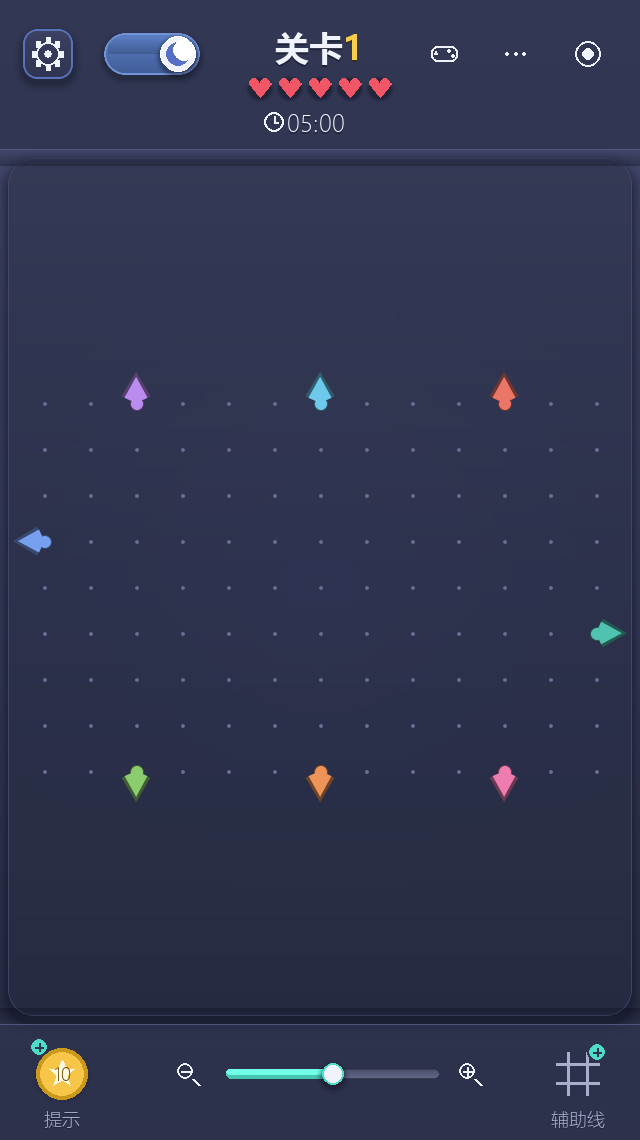
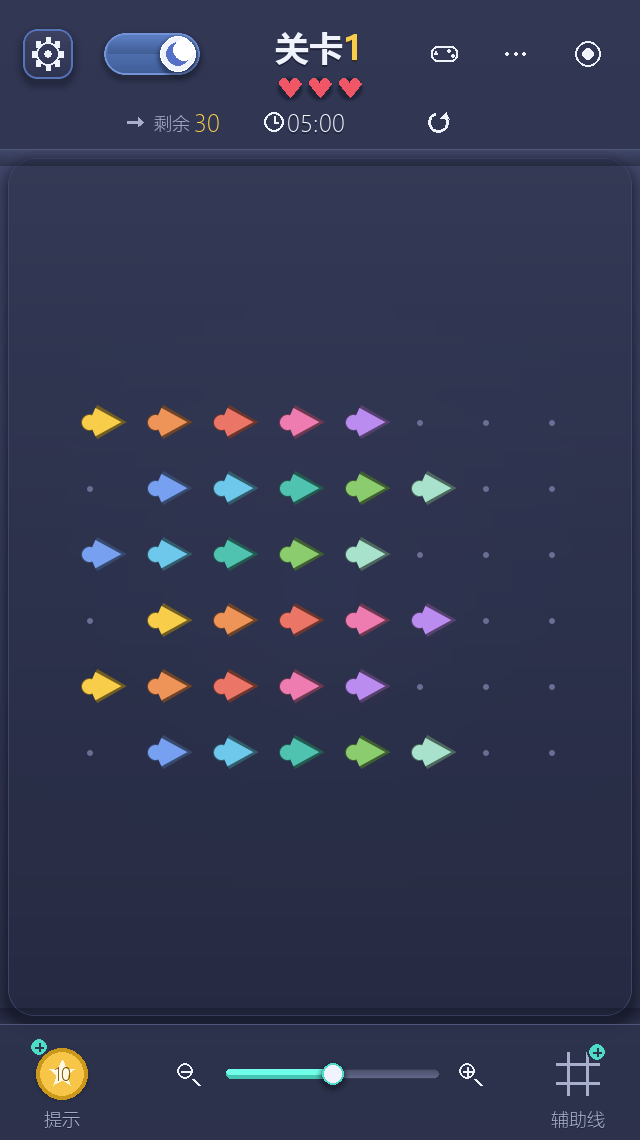
文档与截图：规则页排版 / 入门关卡 / 顶栏（T21）
- docs/design.md 增补“题头带”排版与自动收缩、入门关卡设计两节
- docs/test-record.md 记录 T21 与 368 项通过
- README.md 更新规则页、顶栏重开、入门 50%+ 铺满与 3 颗红心说明
- AIGC记录.md 追加本轮记录（draw.arc 隐形、墨迹矩形测重叠两条经验）
- 重新生成全部截图，新增 playing_tutorial2/3.png

diff --git a/AIGC记录.md b/AIGC记录.md
@@ -34,10 +34,11 @@
 | 22 | 背景柔雾 + 按键配色 | DeepSeek | 玩家要求「开始界面的背景换成跟截图里面类似的（但要有一定改动），按键配色也是」 | 先逐像素采样参考图，确认它用的就是本项目的**日间**配色（按钮蓝 `117,166,243 → 89,140,228`、文字 `42,46,70`、进度条 `38,176,164` 全部对得上），于是方向定为「同一套结构，夜间换深色底」。新增 `Palette.fog`（四团错开的柔雾，**只在非对局界面**铺 —— 对局中会压住棋盘）、`paint.fog_layer()` 预合成成一张整屏贴图；新增 `Palette.ghost_*`，次要按钮从「深底白字」改成**浅色纸片 + 深字**（夜间的纸片是浅蓝白，纯白会晃眼） | 菜单类界面有了雾面层次，开始页按钮是「蓝 / 白 / 蓝 / 白」的节奏；柔雾让开始页 2.90 → 4.15 ms，预合成之后回到 3.38 ms；新增 2 条用例，全量 352 个通过 | 日间的雾是**压暗**而不是提亮（浅底叠淡蓝会降亮度），断言不能假定方向；旧的「次按钮比主按钮暗」那条断言的前提随设计反转一起作废，改成量「纸片比蓝底亮 / 蓝底明显偏蓝 / 纸片上是深字」 |
 | 23 | 开始页暗纹底 + 卡通箭吉祥物 + 按键描边 | DeepSeek | 玩家给了一张开始页设计稿（薄荷青底 + 箭形暗纹 + 标题下方一只带脸的蓝色卡通箭），要求「标题下方那个箭」「背景换成跟截图里面类似的（但要有一定改动）」「按键配色也是」 | 新增 `paint.pattern_layer()` / `blit_pattern()`：底色渐变 + 平铺的同色箭形暗纹合成成**一张不透明贴图**，图案复用游戏自己的 `_arrow_shape`（隔行错开半格、奇偶格上下翻转），`Palette` 补 `menu_top/menu_bottom/pattern/pattern_alpha`；新增 `paint.arrow_mascot()`：投影 / 外描边 / 渐变箭身 / 贴边暗面 / 高光块 + 四角星 / 一张脸（眼白、瞳孔、高光点、两道眉毛、一道笑），整体倾斜 10°，`Palette` 补 7 个 `mascot_*` 字段；主按钮改成参考图那种「亮蓝填充 + **比填充更深**的描边」（`btn_line` 从「比填充亮」翻转）；开始页整体重排给吉祥物让位 | 开始页变成「薄荷青（日间）/ 深蓝（夜间）+ 同色箭形暗纹 + 贴纸标题 + 卡通箭吉祥物 + 蓝白交替按钮」，占屏宽 49% 的吉祥物夹在副标题与按钮之间互不重叠；新增 2 条用例、改 3 条，全量 354 个通过；开始页中位 **3.02 ms**（比上一版 3.38 还低，因为底整块预合成了） | 第一版画出来完全不像箭，连挖三个坑：① 圆角靠「在顶点画圆」，圆鼓到边的外侧，剪影成了**一根骨头** → 改成正规圆角多边形（角平分线内缩 r/tan(θ/2) 得切点、圆心距两边为 r，切点还得按绕行顺序连，否则连成蝴蝶结）；② 渐变只铺在「箭身框」内，箭尾圆头伸到框外被 `BLEND_RGBA_MULT` 乘成透明、**露出深色描边**（看着像尾巴被烧黑）→ 渐变铺满画布；③ 五官直接画在画布上会**浮在箭身外面** → 五官单独成层再用剪影 `BLEND_RGBA_MULT` 裁一刀 |
 | 24 | 规则页溢出 + 入门玩法选关页 + 关号 1/2/3 + 标题居中与配色 | DeepSeek | 玩家一次提五件事：① 规则页文字排版有问题（底下被切掉）；② 「入门玩法」点进去**没有选择关卡界面**；③ 入门关卡排序要是 **1/2/3**，不要 101/102；④ 入门关卡**箭头太少**；⑤ 艺术字的**胶囊条要跟旁边的字居中**，且**第二个字和第三个字颜色不一样** | ① 量出 `esc_y = 1318` 而画面只有 1140（返回按钮整块在画面外），版式常量整体收紧（`RULES_TOP 150→120`、`RULES_GAP 16→8`、`RULES_LINE_H 32→28`、`RULES_KEY_ROW_H 46→38`、`RULES_KEYS_PAD_TOP 70→56`、`RULES_MODES_H 236→200`，玩法四行行距 40→36），现在 `esc_y = 1102`；② 新增第 9 个状态 `TUTORIAL_SELECT` + `open_tutorial_select()` + `_draw_tutorial_select()`（三张 500×130 宽卡竖排、不设解锁），按钮从「直接开第 1 关」改成进这一页，`open_select` / `leave_level` / Esc / 事件分发都补上这条分支；③ 存档 id 改成 `T1/T2/T3`（**不能**用 1/2/3，会和基础关撞车），显示关号改由 `_level_display_number(index)` 按列表下标算；④ 三关箭数 3/4/5 → **8/8/10**（贴边自由箭 / 六支一排的阻挡链 / 上下两条链），`verify_solution` 逐关验过；⑤ `art_banner` 从**底边对齐**改成**墨迹中心对齐**（原来横条被压到字的下沿，中心差 27 px）；⑥ `Palette` 新增 `art_alt2_*`（暖金）给「又」，标题成五色 | 五个问题里**只有规则页溢出是会报错的**（`test_rules_panels_stack_without_overlapping` 这条之前就是失败的），其余四个都不抛异常、测试也照样过；新增 8 条用例（胶囊条居中、三字三色、五个入口 / 九个状态渲染、选关页点得开关号 1/2/3、id 不与基础字母关相交、每关 ≥8 支且可解、入门整条链路含「进度只落在 T1 不串到基础第 1 关」），改 3 条；全量 **360 个用例**通过；截图补 `tutorial_select` / `playing_tutorial1` / `tutorial_select_day` 三张（共 23 张） | 入门选关页第一版把三关横排一行，卡片只占 250~400、**下半屏空掉一大块** → 改成三张宽卡竖排到 684，跟基础选关页节奏对齐；卡上说明文字第一版超宽（353~389 px vs 可用 300 px），把三句 desc 缩短到 227~245 px 才放进卡里；**最大的教训**：这五个问题里有四个（没有选关页、关号显示 101、箭太少、胶囊条掉到字下面）都属于「不抛异常、测试也照样过」，只能靠把版面量成数字、再逐项写成回归断言盯住 |
+| 25 | 规则页标题压字 + 入门关铺满盘面 / 三颗心 + 顶栏剩余箭数与重开 | DeepSeek | 玩家附规则页截图又提四件事：① 规则页**文字排版还是错位**；② 入门玩法**箭头还是太少**，要「尽量铺满棋盘 50% 以上」；③ 入门玩法的**红心应该是三颗**；④ 对局界面**计时器左边加剩余箭头数量、右边加重新开始按钮** | ① 给 `_draw_text` 套一个记账的壳、逐对量**墨迹**矩形，量出「按键功能」这四个字正压在表格第一行上（重叠 **13~15 px** —— 第一行是按写死的 `keys.top + 56` 画的，胶囊还要再往上 16 px）：改成**题头带** `head = font_big 字高 + 12 + 8`，正文一律从 `panel.top + head` 开始；再补一道**整页自动收紧** `RULES_SQUEEZE`（七个旋钮：正文行高 28→24、段间距 6→3、按键行距 38→34、玩法行距 36→32、标题上留白 12→6、下留白 8→4、面板间距 8→5），一步省约 29 px、全拧到底约 116 px 余量；页面大标题上移到 y=78、首块面板 y=116。② 入门三关改成用 `_single_cell_arrows(spans)` 按图案铺单格箭：**30/35/48 支**（占 **62%/56%/60%**，原来只有 7%），`solution` 交给 `solver.solve()` 的拓扑排序现算。③ `mistakes` 5 → **3**。④ 顶栏倒计时左侧「剩余 N」、右侧「重新开始」按钮（新增 `icons.restart`，回调复用 `restart_level` 并给一句提示） | 规则页 9 处重叠 → **0**；入门三关开局能直接飞的分别是 6/11/2 支（仍然是「先清挡路的」，不是无脑乱点）；全量 **368 个用例**通过（新增 9 条、删 1 条）；截图补 `playing_tutorial2/3` 两张（共 26 张）。新增回归：规则页**任意两段文字的墨迹不许重叠**、标题与首行留 ≥6 px 空档、文案变长时自动收紧仍塞得下且旋钮不越下限、顶栏三件套的左右顺序与「不与红心/齿轮/拨杆/手柄/⋯/靶心相交」、顶栏图标必须画出 ≥24 像素、点重开回到开局、入门关铺满一半且至少一支被挡着、整条解在真棋盘上走通 | ① 第一次只做了 4 个旋钮，测试里加一句长文案就顶出画面（`esc_y = 1125`）→ 旋钮扩到 7 个（补上题头带与面板间距，余量 18 → 116 px）；② 「重新开始」图标第一版用 `pygame.draw.arc`，**只画出 69 个像素**、整块区域 2 种颜色，肉眼几乎看不见 → 改用 `draw.lines` 逐点连圆弧（152 px）；③ 顶栏「剩余 N」整组宽度会随数字位数变 → 改成按中心居中，并把包围盒记在 `hud.arrows_rect / hud.clock_rect` 上给测试对位置。**教训**：这轮四个问题**没有一个会让测试变红**，而且规则页在数值上并不算「溢出」（`esc_y` 一直在画面内）—— 判据得从「有没有超界」升级成「任意两段文字的墨迹都不许叠」 |
 
 ---
 
-## 详述：十一条值得单独讲的记录
+## 详述：十二条值得单独讲的记录
 
 ### 记录 A：环境问题 —— 为什么用 `pygame-ce` 而不是 `pygame`
 
@@ -439,3 +440,15 @@
   光平铺就是上百次小 blit 外加整屏透明混合）
 - 参考图的背景是薄荷青，夜间主题怎么处理？（配色不照抄：夜间只加同色暗纹、底色留在
   深蓝上；暗纹透明度按底色分别定，日间 62 压深、夜间 26 提亮）
+
+### 记录 L：规则页「标题压住正文」与顶栏那两个新控件 —— 三个「画出来才知道」的坑
+
+- **工具**：DeepSeek
+- **提出的要求**：玩家附截图反馈「规则页文字排版还是错位」「入门关卡箭头太少，要尽量铺满棋盘 50% 以上」「入门关卡红心应该是三颗」「计时器左边加剩余箭头数量、右边加重新开始按钮」。
+- **AI 完成内容**：先写一个临时脚本，把规则页画一遍，同时给 `_draw_text` 套一个记账的壳，把每一段文字的**墨迹**矩形（`font.render(...).get_bounding_rect()`）都抓出来逐对求交 ——一眼看到「按键功能」`Rect(50, 394, 124, 41)` 与第一行的 `撤销一步` `Rect(124, 422, 72, 24)` 重叠 `50 x 13`。据此把面板版式改成「题头带 + 正文从带子下面起」，并加了一道按 `RULES_SQUEEZE` 逐档收紧的兜底；入门三关在 `game/level.py` 里按图案铺单格箭（`_single_cell_arrows`），解由 `solver.solve()` 现算；顶栏补上「剩余 N」和「重新开始」。
+- **实际效果**：规则页重叠从 9 处降到 0（其余 6 处是相邻两行**字框**重叠 2~5 px，墨迹并不碰，属正常）；入门三关从 7% 铺到 62%/56%/60%；全量 368 个用例通过。
+- **人工修改**：
+  - 收紧旋钮第一版只做了 4 个（行高 / 段间距 / 两种行距），测试加一句长文案就顶出画面（`esc_y = 1125`）；把「题头带的上下留白」和「面板间距」也做成旋钮之后余量从 18 px 扩到 116 px。
+  - 「重新开始」图标第一版用 `pygame.draw.arc`：**半径十几像素、线宽 2~3 时它一个像素都不画**（实测整块 44×44 的区域只有 2 种颜色、图标占 69 个像素，几乎看不见）→ 改成用 `draw.lines` 按角度逐点连圆弧再补一个三角箭头（152 个像素），并补了一条「顶栏图标必须画出 ≥24 像素」的回归。
+  - 顶栏「剩余 N」整组是按左对齐摆的，数字从 2 位变 1 位就会把这一行顶歪 → 改成按`ARROW_LEFT_CENTER` 组内居中，绘制时把包围盒记在 `hud.arrows_rect / hud.clock_rect` 上，测试直接拿它跟红心、齿轮、拨杆、手柄、`⋯`、靶心对位置。
+- **为什么值得单独记**：这一轮四个问题**没有一个会让测试变红**，而且规则页在数值上并不算「溢出」（`esc_y` 一直落在画面内、测试也一直绿）。它只是**把标题压在了正文上** —— 所以判据要从「有没有超界」升级成「任意两段文字的墨迹都不许叠」，才能在下一次改版时接住它。同类经验：画面上「少了 / 压了 / 挡了」的东西，只要不越界就永远不会自己喊疼。

diff --git a/docs/design.md b/docs/design.md
@@ -4,20 +4,22 @@
 
 | 当前状态 | 触发条件 | 转到状态 |
 |---|---|---|
-| START 开始界面（四个入口） | 点「规则介绍」 | RULES |
+| START 开始界面（五个入口） | 点「规则介绍」 | RULES |
+| START | 点「入门玩法」 | TUTORIAL_SELECT |
 | START | 点「基础玩法」/「字母玩法」 | BASIC_SELECT / LETTER_SELECT |
 | START | 点「随机关卡」 | PLAYING（现场生成一关） |
 | RULES 规则介绍 | 点「返回」/ Esc | 回到进来时的那一屏（开始页或游戏中） |
-| BASIC_SELECT / LETTER_SELECT | 点某一关的卡片 | PLAYING |
+| TUTORIAL_SELECT / BASIC_SELECT / LETTER_SELECT | 点某一关的卡片 | PLAYING |
+| PLAYING 游戏中 | 点顶栏「重新开始」 | PLAYING（盘面 / 红心 / 倒计时回到开局） |
 | PLAYING 游戏中 | 本关线段全部清除，且还有下一关 | LEVEL_CLEAR |
 | PLAYING 游戏中 | 本关线段全部清除，且已是本玩法的最后一关 | ALL_CLEAR |
 | PLAYING 游戏中 | 剩余红心变为 0 | GAME_OVER |
 | PLAYING 游戏中 | 倒计时归零 | GAME_OVER |
 | LEVEL_CLEAR 单关通关 | 点「下一关」 | PLAYING |
-| GAME_OVER 失败 | 点「重试本关」 | PLAYING |
+| GAME_OVER 失败 | 点「重新开始」 | PLAYING |
 | 任意结果界面 | 点「返回首页」 | START |
 
-状态枚举定义在 `game/states.py`。开始页的四个入口与它们对应的状态，
+状态枚举定义在 `game/states.py`。开始页的五个入口与它们对应的状态，
 详见第 9.4 节。
 
 ## 2. 数据结构
@@ -206,19 +208,22 @@
 
 - **开始页**：艺术字标题「一箭又一箭」（第 8.7 节）+ 四个平级入口按钮
   （规则介绍 / 基础玩法 / 字母玩法 / 随机关卡）+ 一张进度卡（两个玩法各一条进度条）。
-- **规则介绍页**：三张卡片 —— 怎么玩、按键功能表（`main.KEY_HINTS`，两列）、
-  三种玩法；底部一个返回按钮，Esc 同样可退。
+- **规则介绍页**：四张卡片 —— 怎么玩、按键功能表（`main.KEY_HINTS`，两列）、
+  四种玩法（`main.MODE_LINES`）、进度与设置；底部一个返回按钮，Esc 同样可退。
+  每块面板顶部留一条「题头带」，正文一律从带子下面开始（见 8.10）。
 - **选关页**：基础玩法是 4×3 的卡片网格（逐关解锁、带星星），字母玩法是
-  6×5 的字母网格（26 个字母全部开放），两页共用 `_grid_rects()` 排布。
+  6×5 的字母网格（26 个字母全部开放），入门玩法是三张 500×130 的宽卡竖排
+  （不设解锁条件），三页共用 `_grid_rects()` 排布。
 - **顶栏**：设置齿轮（左上）· 日夜拨杆 · 关卡标题 + 金色关卡号 · 红心 ×3 ·
-  倒计时 · 手柄（跳关）· `⋯`（菜单）· 靶心（关卡选择）。
+  倒计时（左边「剩余 N」箭数、右边「重新开始」）· 手柄（跳关）· `⋯`（菜单）·
+  靶心（退回选关页）。
 - **棋盘**：中部自适应缩放，按 `MAX_CELL_SIZE` 上限等比铺满可用区域，
   底部滑杆可以手动缩放，放大后按住棋盘即可拖动（见 6.2）；辅助线点阵画在造型
   遮罩的格心。
 - **底栏**：金币 + 提示（左上）· 缩小 / 滑杆 / 放大（中部）· 辅助线开关（右上）。
 - **绘制全部由代码完成**：图标是 `game/icons.py` 里的矢量绘制（齿轮、弯月、太阳、
-  手柄、时钟、金币、灯泡、`#`，以及开始页四个入口的书 / 播放 / 字母 A / 骰子），
-  音效是 `game/audio.py` 用 `numpy` 合成的正弦波，
+  手柄、时钟、金币、灯泡、`#`、剩余箭数用的右箭头、重新开始用的环形箭头，以及开始页
+  四个入口的书 / 播放 / 字母 A / 骰子），音效是 `game/audio.py` 用 `numpy` 合成的正弦波，
   **项目里没有任何图片或音频素材**，因此不存在素材版权问题。
 - **配色**：`game/theme.py` 提供日间 / 夜间两套界面配色；线段箭的颜色由
   `ARROW_PALETTE`（夜间，糖果色）与 `ARROW_PALETTE_DAY`（日间，压深一档）
@@ -683,6 +688,50 @@ for index, line in enumerate(rules):
 逐条断言「副标题底 < 吉祥物顶」、「吉祥物底 < 第一个按钮顶」、「按钮之间 ≥ 8 px」、
 「进度卡在最后一个按钮之下」。
 
+### 8.10 规则页：题头带 + 整页自动收紧
+
+规则页有四块面板（怎么玩 / 按键功能 / 四种玩法 / 进度与设置），每块的高度都由内容
+算出来、依次往下排。这一版修掉两个「玩家看得见、程序不报错」的排版事故：
+
+**① 标题压住了正文。** 面板标题画在 `panel.top + 18`，而按键功能表的第一行是按一个
+写死的偏移量画的（`keys.top + 56`，胶囊还要再往上 16 px）—— 于是「按键功能」这四个字
+正好搭在 `撤销一步` 上，实测重叠 **13 ~ 15 px**：屏幕上就是一团「字叠字」。改成
+**题头带**之后就再也不可能发生：
+
+```python
+head = font_big.get_height() + RULES_TITLE_PAD + RULES_HEAD_GAP   # 59 px
+```
+
+标题只占这条带子，正文 / 表格第一行一律从 `panel.top + head` 开始。判据也从「看着
+还行」换成了可量的东西 —— 回归测试在页面画一遍的同时把每一段文字的**墨迹**矩形
+（`font.render(...).get_bounding_rect()`，不是字框）都记下来，逐对断言不重叠。
+量墨迹而不是字框：字框天生比字高，相邻两行的字框重叠 2 ~ 5 px 是正常的。
+
+**② 四块面板累加会顶出窗口。** 上一版把间距常量整体收紧之后 `esc_y = 1318 → 1102`，
+但那是**手算出来的临界值**：正文再加一句就又出去了，而且顶出去的部分同样只是画到
+画面外（玩家看到「底部缺了一块」）。现在多了一道兜底：按 `RULES_SQUEEZE` 这张
+「旋钮表」逐档收紧，直到最后一行离底边还留着 `RULES_BOTTOM_PAD`：
+
+| 旋钮 | 初值 | 下限 |
+|---|---|---|
+| 正文行高 | 28 | 24 |
+| 正文段间距 | 6 | 3 |
+| 按键表行距 | 38 | 34 |
+| 玩法表行距 | 36 | 32 |
+| 面板标题上留白 | 12 | 6 |
+| 标题→正文留白 | 8 | 4 |
+| 面板之间 | 8 | 5 |
+
+一步能省约 29 px（4 条正文 9 px + 段间距 2 px + 按键表 4 px + 玩法表 3 px +
+四块面板的题头带 8 px + 三道缝 3 px），七档全拧到底约有 116 px 的余量。回归测试
+拿「再加一句长文案」当输入，断言 `esc_y` 仍然落在画面内、且每个旋钮都没被拧过下限。
+
+**顺带两个小东西**：`pygame.draw.arc` 在「半径十几像素 + 线宽大于 1」时**一个像素都
+不画**（新加的「重新开始」图标就踩了这个坑：按钮在、能点，只是看不见），所以
+`icons.undo / icons.restart` 都改成用 `draw.lines` 逐点把圆弧连出来；顶栏那一行的两个
+信息位（剩余箭数 / 重新开始）各自把包围盒记在 `hud.arrows_rect / hud.clock_rect` 上，
+测试直接拿它们跟红心、右上角图标、日夜拨杆对位置。
+
 ## 9. 字母玩法：字模 → 遮罩 → 关卡
 
 基础玩法的 12 关铺在「形状」里（圆、心、菱形……），字母玩法的 26 关则**整盘铺成
@@ -775,6 +824,43 @@ C 的字模          放大后（3 倍）
 界面照它画、测试照它断言（包括「不再有 N 键」这条回归）。随机关卡从按键
 挪到入口按钮之后，`K_n` 的绑定被删掉，`_handle_key` 里不再有它。
 
+### 9.5 入门三关：单格箭铺满盘面
+
+入门玩法的三关和另外两套玩法的关卡来源完全不同 —— 它们不是生成器批量造出来的，
+而是**在 `game/level.py` 里按图案摆出来的单格箭**：
+
+```python
+def _single_cell_arrows(spans):     # spans: (行下标们, 列下标们, 方向)
+```
+
+| 关 | 盘面 | 箭数 / 占比 | 摆法 |
+|---|---|---|---|
+| T1 满盘齐飞 | 6 × 8 | 30 / 62% | 三行铺 `cols 0~4`、三行铺 `cols 1~5`，全朝右 → 每行一条链，从最右往左点 |
+| T2 上下分头 | 7 × 9 | 35 / 56% | 上半三行全朝上、下半三行全朝下，中间一行朝右 |
+| T3 纵横交叉 | 8 × 10 | 48 / 60% | 两侧竖列 + 四条横行 + 两条下沉列，纵横交叉 |
+
+三条设计约束：
+
+1. **铺满一半以上**。原来三关只有 3/4/5 支（占 7%），点两下就空了；
+2. **必须成链**，不能「无脑乱点必通关」：同一串同向的单格箭天生首尾相接 ——
+   箭头端那条射线上压着下一支，只能从箭头所指的那一端往回点。三关开局能直接飞的
+   分别是 6/11/2 支（T3 只有 2 支，是真正需要想一想的一关）；
+3. **红心和主线一致是 3 颗**（`mistakes: 3`）。这一条不改也不报错，界面上就是多出
+   两颗空心的位置。
+
+`solution` 不手写 —— 摆完格子交给 `game/solver.py` 的拓扑排序跑一遍：
+
+```python
+order = solve(Board(level))
+if not order:
+    raise ValueError("入门关 %s 摆成了死局" % level_id)
+```
+
+好处是**盘面和解永远同步**（改一格不用手工重排顺序），而且摆成死局会在**导入时**
+就炸掉，不用等到玩家点进去。测试另外用真棋盘把这条解完整走一遍（顺便独立校验
+那道拓扑序真的合法），再加一条「每关至少有一个格子被挡着」——防止以后加箭时
+不小心摆成「全部都能立刻飞」。
+
 ## 10. 扩展功能清单
 
 | 扩展 | 位置 |
@@ -784,7 +870,9 @@ C 的字模          放大后（3 倍）
 | 撤销上一步 | `Board.snapshot / undo` + `main.undo` |
 | 倒计时与星级评价 | `main._update / _finish_level` |
 | 关卡选择界面（入门 3 关 / 基础 12 关 / 字母 26 关） | `main._draw_tutorial_select / _draw_level_select / _draw_letter_select` |
-| 开始页五个入口 + 规则介绍页 | `main._build_widgets / _draw_rules`、`main.KEY_HINTS` |
+| 开始页五个入口 + 规则介绍页 | `main._build_widgets / _draw_rules`、`main.KEY_HINTS`、`main.MODE_LINES` |
+| 规则页按内容排版 + 整页自动收紧 | `main._build_rules_layout`、`main.RULES_SQUEEZE`（见 8.10） |
+| 顶栏「剩余箭数 / 重新开始」 | `hud.Hud._draw_arrows_left`、`hud.Hud.restart_button` → `main.restart_level` |
 | 字母玩法（5×7 点阵字模 → 棋盘遮罩） | `game/letters.py` + `game/level_letters.py` |
 | 随机生成关卡 | `generator.random_level` |
 | JSON 本地存档 | `game/storage.py` |

diff --git a/docs/test-record.md b/docs/test-record.md
@@ -1,8 +1,8 @@
-# 测试记录（T01 – T20）
+# 测试记录（T01 – T21）
 
 - 运行环境：Windows 11 / Python 3.14.0 / pygame-ce 2.5.8 / pytest 9.x
 - 运行方式：项目根目录执行 `python -m pytest -q`（测试在 SDL dummy 驱动下无窗口运行）
-- 汇总结果：**360 passed**，耗时约 49 s
+- 汇总结果：**368 passed**，耗时约 25 s
 
 ---
 
@@ -672,12 +672,92 @@
 
 ---
 
+## T21 规则页标题压字 + 入门关铺满盘面 / 三颗心 + 顶栏剩余箭数与重开
+
+- **触发**：玩家又提了四件事（附规则页截图）——
+  ① 规则页**文字排版还是错位**；
+  ② 入门玩法的**箭头还是太少**，「要尽量铺满棋盘 50% 以上」；
+  ③ 入门玩法的**红心应该是三颗**；
+  ④ 对局界面**计时器左边加剩余箭头数量、右边加重新开始按钮**。
+- **复现**：把规则页画一遍、同时给 `Game._draw_text` 套一个记账的壳，逐对量**墨迹**
+  矩形（`font.render().get_bounding_rect()`）。量出来 9 处重叠，其中真正的错位是：
+
+  ```
+  按键功能   Rect(50, 394, 124, 41)  <->  U        Rect(75, 420, 13, 24)  inter=13x15
+  按键功能   Rect(50, 394, 124, 41)  <->  撤销一步   Rect(124, 422, 72, 24) inter=50x13
+  怎么玩     Rect(50, 138, 93, 41)   <->  点击彩色…  Rect(50, 174, 322, 31) inter=93x5
+  ```
+
+  即**面板标题压在表格第一行上**（13 ~ 15 px）：按键功能表的第一行是按写死的
+  `keys.top + 56` 画的，胶囊还要再往上 16 px，于是正好搭在标题的四个字上。截图里那团
+  「字叠字」就是它。另外 6 处是相邻两行的**字框**重叠 2 ~ 5 px —— 字框天生比字高，
+  墨迹并不碰，属于正常。
+- **改动**：
+  1. **题头带**：`head = font_big.get_height() + RULES_TITLE_PAD + RULES_HEAD_GAP`
+     （59 px）。面板标题只占这条带子，正文 / 表格第一行一律从 `panel.top + head` 开始，
+     标题压正文在结构上不可能再发生。
+  2. **整页自动收紧**：四块面板按内容累加，很容易超过 1140（超出的部分只是画到画面外，
+     不报错）。新增 `RULES_SQUEEZE` 旋钮表（正文行高 28→24、段间距 6→3、按键行距
+     38→34、玩法行距 36→32、标题上留白 12→6、标题下留白 8→4、面板间距 8→5），
+     一步省约 29 px、七档全拧到底约 116 px 余量，直到最后一行离底边还留着 18 px。
+     页面大标题也上移到 `y=78`、首块面板 `y=116`（原来标题的字框 64~136 和面板顶
+     120 只差 16 px）。
+  3. **入门关铺满盘面**：三关从 3 / 4 / 5 支（占 7%）改成 **30 / 35 / 48 支**
+     （占 62% / 56% / 60%）。做法是在 `game/level.py` 里用 `_single_cell_arrows(spans)`
+     按「一串格子 + 一个方向」铺单格箭 —— 同一串同向天生首尾相接成阻挡链，
+     开局能直接飞的分别是 6 / 11 / 2 支。`solution` 改由 `game/solver.py` 的拓扑排序
+     现算（摆成死局会在导入时直接抛错，盘面和解永远同步）。
+  4. **红心 3 颗**：入门三关 `mistakes` 5 → 3，和主线一致。
+  5. **顶栏两个信息位**：倒计时左边是「小箭头 + 剩余 + 金色数字」，右边是「重新开始」
+     圆形按钮（回调跟菜单里那条、失败页那颗走同一个 `restart_level`，点了给一句提示）。
+     两块的包围盒记在 `hud.arrows_rect / hud.clock_rect` 上供测试对位置。
+  6. **顺手修掉一个隐形 bug**：`pygame.draw.arc` 在「半径十几像素 + 线宽大于 1」时
+     **一个像素都不画** —— 新加的「重新开始」图标第一版就是它，按钮在、能点，
+     只是看不见（整块区域只有 2 种颜色）。`icons.undo / icons.restart` 改成用
+     `draw.lines` 逐点连圆弧，图标从 69 px 涨到 152 px。
+- **用例**（新增 9 条，删掉 1 条被取代的）：
+  1. `test_no_two_pieces_of_text_on_the_rules_page_overlap` —— 规则页任意两段文字的
+     **墨迹**不许重叠（≥2×2 px 就算）；改之前按键表标题处会报；
+  2. `test_rules_panel_titles_leave_a_gap_above_the_content` —— 四块面板的标题与第一行
+     之间要留 ≥ 6 px 的空档（只「不叠」还不够）；
+  3. `test_rules_page_squeezes_itself_when_the_copy_grows` —— 往文案里再加一句，
+     自动收紧仍要把最后一行留在画面内，且旋钮不许拧过下限；
+  4. `test_rules_panels_stack_without_overlapping`（改）—— 面板间距改成用**收紧后**
+     的实际值断言，并加上「最后一行离底边 ≥ 18 px」；
+  5. `test_top_bar_reads_arrows_left_timer_restart_in_a_row` —— 剩余箭数在计时器左边、
+     重开在右边，三者都在顶栏内，且不与红心 / 齿轮 / 日夜拨杆 / 手柄 / `⋯` / 靶心相交；
+  6. `test_top_bar_icons_actually_paint_pixels` —— 顶栏七个图标各自必须画出 ≥ 24 个像素
+     （专抓 `draw.arc` 那类「画了个寂寞」）；
+  7. `test_arrows_left_readout_follows_the_board` —— 飞走一支，「剩余」就少 1；
+  8. `test_restart_button_puts_the_level_back_to_the_start` —— 点顶栏重开：箭数 / 红心 /
+     倒计时全回开局，并给一句提示；
+  9. `test_tutorial_levels_fill_over_half_the_board`（取代原「至少 8 支」那条）——
+     每关的箭盖住一半以上格子、≥ 24 支、红心 3 颗、全是单格箭、开局有箭被挡着、
+     `verify_solution` 通过；
+  10. `test_tutorial_boards_are_dense_and_never_leave_a_deadlock` —— 拿真棋盘把求解器
+      给的顺序完整走一遍，防止以后加箭时摆出一个互相封死的环。
+- **预期**：全部通过。
+- **实际**：全量 **368 个用例**全过（25 s）。中间量到三处需要回改：
+  - 规则页第一次收紧只留了一层旋钮，测试加一句长文案就顶出去了（`esc_y = 1125`）——
+    把旋钮从 4 个扩到 7 个（补上题头带与面板间距），余量从 18 px 扩到 116 px；
+  - 「重新开始」图标第一版用 `pygame.draw.arc`，画出来只有 69 个像素、整块区域 2 种
+    颜色，肉眼几乎看不见 —— 换成 `draw.lines` 逐点连圆弧；
+  - 顶栏两个信息位第一版量位置时发现「剩余」整组会随数字位数变宽，改成按
+    `ARROW_LEFT_CENTER` 居中，并把包围盒记下来给测试用。
+- **结论**：这一轮四个问题**没有一个会让测试变红**——「标题压住正文」「箭太少」
+  「红心 5 颗」「顶栏少两个控件」全是「画出来才知道」的那一类，而且和 T20 一样，
+  规则页排版在数值上并不算「溢出」（`esc_y` 一直在画面内），只是**局部压在了不该压的
+  地方**。所以判据要从「有没有超界」升级成「任意两段文字的墨迹都不许叠」。
+
+---
+
 ## 未覆盖 / 已知限制
 
 - `game/audio.py` 的音效只在有真实音频设备时才会响，测试环境用 dummy 驱动，只验证了
   「初始化失败时不崩溃」。
-- `game/hud.py`、`game/icons.py` 的**具体画法**仍然靠 `tools/screenshot.py` 离屏出图人工
-  核对（顶栏 / 底栏 / 菜单 / 设置 / 日间主题各出一张图），没有逐个图标做像素断言；
+- `game/hud.py`、`game/icons.py` 的**具体画法**仍然主要靠 `tools/screenshot.py` 离屏出图
+  人工核对（顶栏 / 底栏 / 菜单 / 设置 / 日间主题各出一张图）；现在只对顶栏那几个图标
+  断言了「画出来 ≥ 24 个像素」（T21，抓「画了个寂寞」），图案长什么样没有逐像素断言。
   它们依赖的 `game/paint.py` 原语（渐变 / 柔光 / 投影 / 卡片）已经有像素级测试（T12）。
 - `game/paint.py` 的贴图缓存是模块级的全局字典，键里包含了全部颜色参数，所以切主题、
   改配色都会自然命中新键。**代价是**：如果以后给它加一个「不带颜色」的参数（比如随
